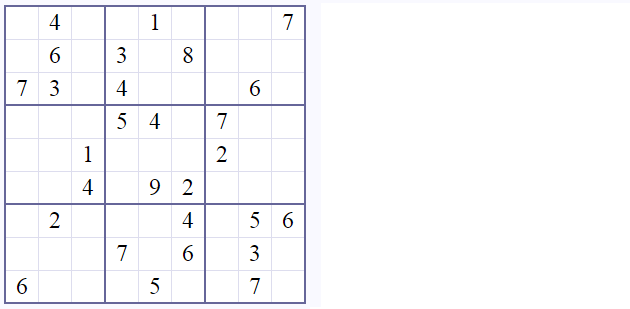
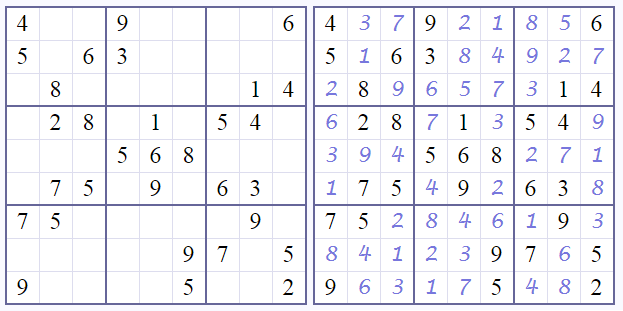
medium

Changed region(s): [[0.0, 0.0, 1.0, 0.9903]]

diff --git a/Sudoko/Sudoku.cs b/Sudoko/Sudoku.cs
@@ -22,7 +22,7 @@ namespace Sudoko
                 }
             }
         }
-        
+
         public void PrintToConsole()
         {
             Console.WriteLine();
@@ -57,8 +57,8 @@ namespace Sudoko
             List<int> possibleValues = null;
             int zero_count = data.Where(P => !P.IsFilled).Count();
             int previousCount = zero_count;
-            int break_x = 7;
-            int break_y = 7;
+            int break_x = 0;
+            int break_y = 1;
             while (zero_count > 0)
             {
                 foreach (var item in data.Where(P => !P.IsFilled))
@@ -84,6 +84,21 @@ namespace Sudoko
                             if (possibleValues.Count > 1)
                             {
                                 break;
+                            }
+                        }
+                    }
+                    if (possibleValues.Count != 1)
+                    {
+                        possibleValues = new List<int>();
+                        foreach (var x in remainingNumbers)
+                        {
+                            if (IsInAdjacentCells(x, item) && !IsInRow(x, item) && !IsInColumn(x, item) && !IsInBox(x, item, allNoOfBox))
+                            {
+                                possibleValues.Add(x);
+                                if (possibleValues.Count > 1)
+                                {
+                                    break;
+                                }
                             }
                         }
                     }
@@ -118,12 +133,141 @@ namespace Sudoko
             return allNoOfBox.Contains(x);
         }
 
+        private bool IsInAdjacentCells(int x, SudokuCell item)
+        {
+            var result = true;
+            var getAdjacentRows = GetAdjacentRows(item.XIndex);
+            var getAdjacentColumns = GetAdjacentColumns(item.YIndex);
+            var rowCheck = true;
+            var colCheck = true;
+
+            if (item.XIndex == 1 && item.YIndex == 3)
+            {
+                result = true;
+                //var a1 = data.Where(P => P.XIndex == item.XIndex && getAdjacentColumns.Contains(P.YIndex)).ToList();
+                //var a2 = data.Where(P => P.YIndex == item.YIndex && getAdjacentRows.Contains(P.XIndex)).ToList();
+            }
+
+            //getAdjacentColumns = data.Where(P => P.XIndex == item.XIndex && getAdjacentColumns.Contains(P.YIndex) && P.Value == 0).Select(P => P.YIndex).ToList();
+            //getAdjacentRows = data.Where(P => P.YIndex == item.YIndex && getAdjacentRows.Contains(P.XIndex) && P.Value == 0).Select(P => P.XIndex).ToList();
+
+            for (int i = 0; i < getAdjacentRows.Count; i++)
+            {
+                if (data.Where(P => P.XIndex == getAdjacentRows[i] && P.Value == x).FirstOrDefault() == null)
+                {
+                    rowCheck = false;
+                    result = false;
+                    break;
+                }
+            }
+
+            for (int i = 0; i < getAdjacentColumns.Count; i++)
+            {
+                if (data.Where(P => P.YIndex == getAdjacentColumns[i] && P.Value == x).FirstOrDefault() == null)
+                {
+                    colCheck = false;
+                    result = false;
+                    break;
+                }
+            }
+
+            if (rowCheck)
+            {
+                result = true;
+                getAdjacentColumns = data.Where(P => P.XIndex == item.XIndex && getAdjacentColumns.Contains(P.YIndex) && P.Value == 0).Select(P => P.YIndex).ToList();
+                for (int i = 0; i < getAdjacentColumns.Count; i++)
+                {
+                    if (data.Where(P => P.YIndex == getAdjacentColumns[i] && P.Value == x).FirstOrDefault() == null)
+                    {
+                        result = false;
+                        break;
+                    }
+                }
+            }
+
+            if (colCheck)
+            {
+                result = true;
+                getAdjacentRows = data.Where(P => P.YIndex == item.YIndex && getAdjacentRows.Contains(P.XIndex) && P.Value == 0).Select(P => P.XIndex).ToList();
+                for (int i = 0; i < getAdjacentRows.Count; i++)
+                {
+                    if (data.Where(P => P.XIndex == getAdjacentRows[i] && P.Value == x).FirstOrDefault() == null)
+                    {
+                        result = false;
+                        break;
+                    }
+                }
+            }
+
+            return result;
+        }
+
+        private List<int> GetAdjacentRows(int currentRowIndex)
+        {
+            List<int> result = new List<int>();
+            switch (currentRowIndex)
+            {
+                case 0:
+                case 3:
+                case 6:
+                    result.Add(currentRowIndex + 1);
+                    result.Add(currentRowIndex + 2);
+                    break;
+                case 1:
+                case 4:
+                case 7:
+                    result.Add(currentRowIndex - 1);
+                    result.Add(currentRowIndex + 1);
+                    break;
+                case 2:
+                case 5:
+                case 8:
+                    result.Add(currentRowIndex - 1);
+                    result.Add(currentRowIndex - 2);
+                    break;
+                default:
+                    break;
+            }
+
+            return result;
+        }
+
+        private List<int> GetAdjacentColumns(int currentColumnIndex)
+        {
+            List<int> result = new List<int>();
+            switch (currentColumnIndex)
+            {
+                case 0:
+                case 3:
+                case 6:
+                    result.Add(currentColumnIndex + 1);
+                    result.Add(currentColumnIndex + 2);
+                    break;
+                case 1:
+                case 4:
+                case 7:
+                    result.Add(currentColumnIndex - 1);
+                    result.Add(currentColumnIndex + 1);
+                    break;
+                case 2:
+                case 5:
+                case 8:
+                    result.Add(currentColumnIndex - 1);
+                    result.Add(currentColumnIndex - 2);
+                    break;
+                default:
+                    break;
+            }
+
+            return result;
+        }
+
         private List<int> GetAllNoOfBox(SudokuCell cell)
         {
             List<int> result = new List<int>();
             foreach (var item in GetIndexForAllNoOfBox(cell))
             {
-                if (data[item].Value != null)
+                if (data[item].Value != 0)
                     result.Add(data[item].Value);
             }
 
@@ -254,6 +398,7 @@ namespace Sudoko
 
             return result;
         }
+
     }
 
     public class SudokuCell

diff --git a/Sudoko/Program.cs b/Sudoko/Program.cs
@@ -9,7 +9,7 @@ namespace Sudoko
         public static void Main(string[] args)
         {            
             var input = new int[9, 9];
-            input = JsonConvert.DeserializeObject<int[,]>(File.ReadAllText("easy.txt"));
+            input = JsonConvert.DeserializeObject<int[,]>(File.ReadAllText("medium.txt"));
             var s = new Sudoku(input);
             s.PrintToConsole();
             s.Solve();
